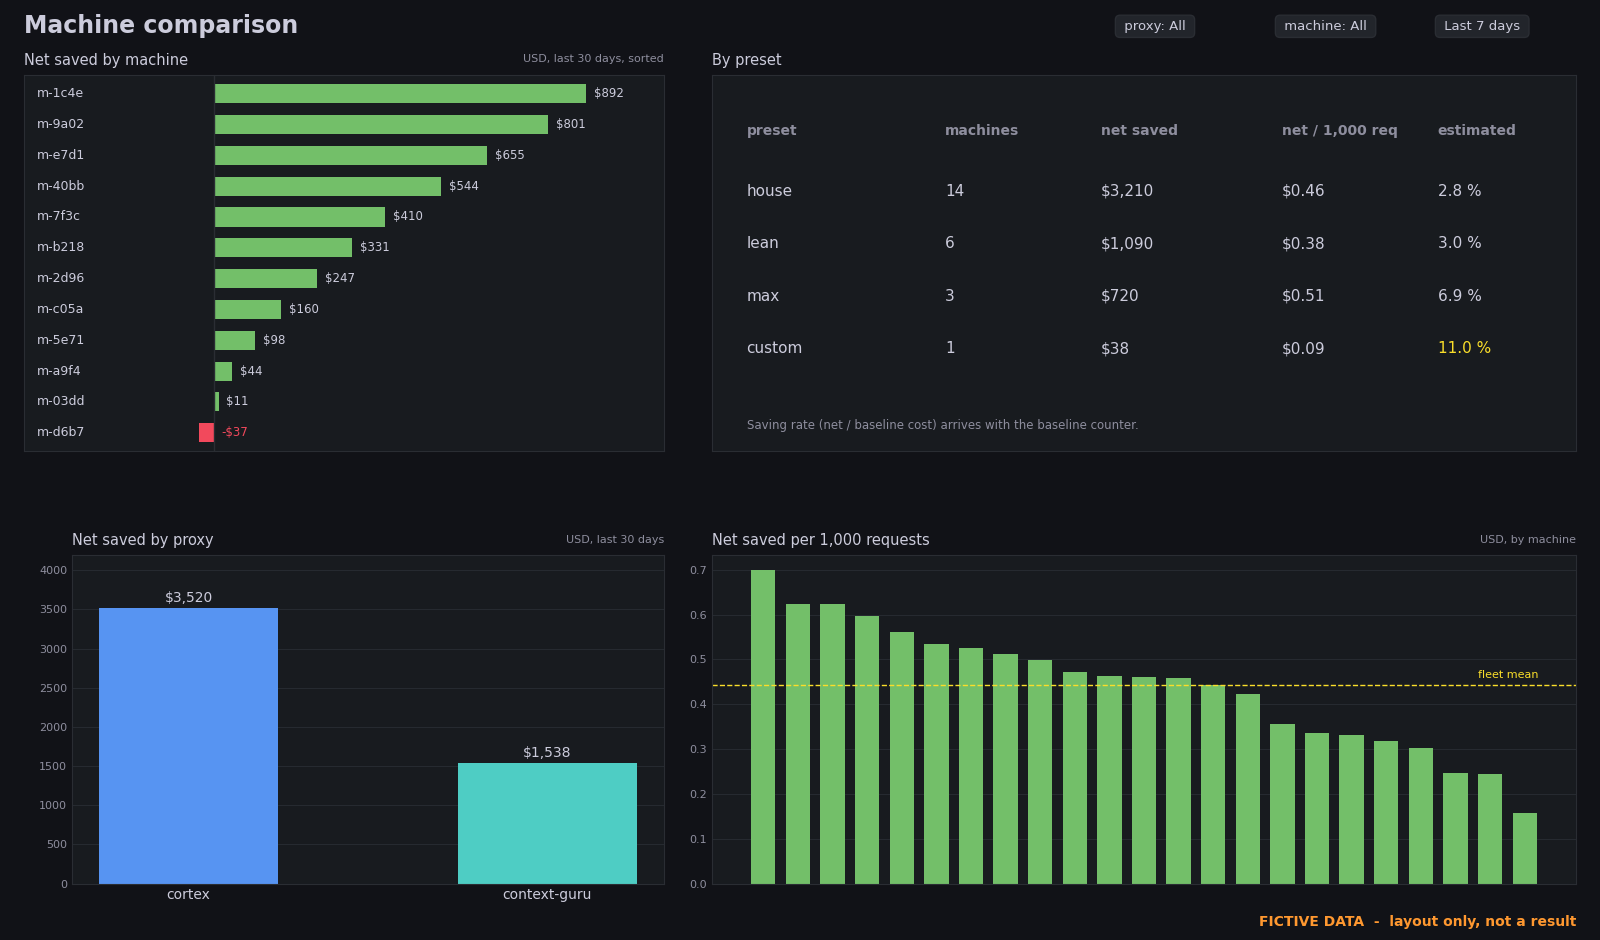
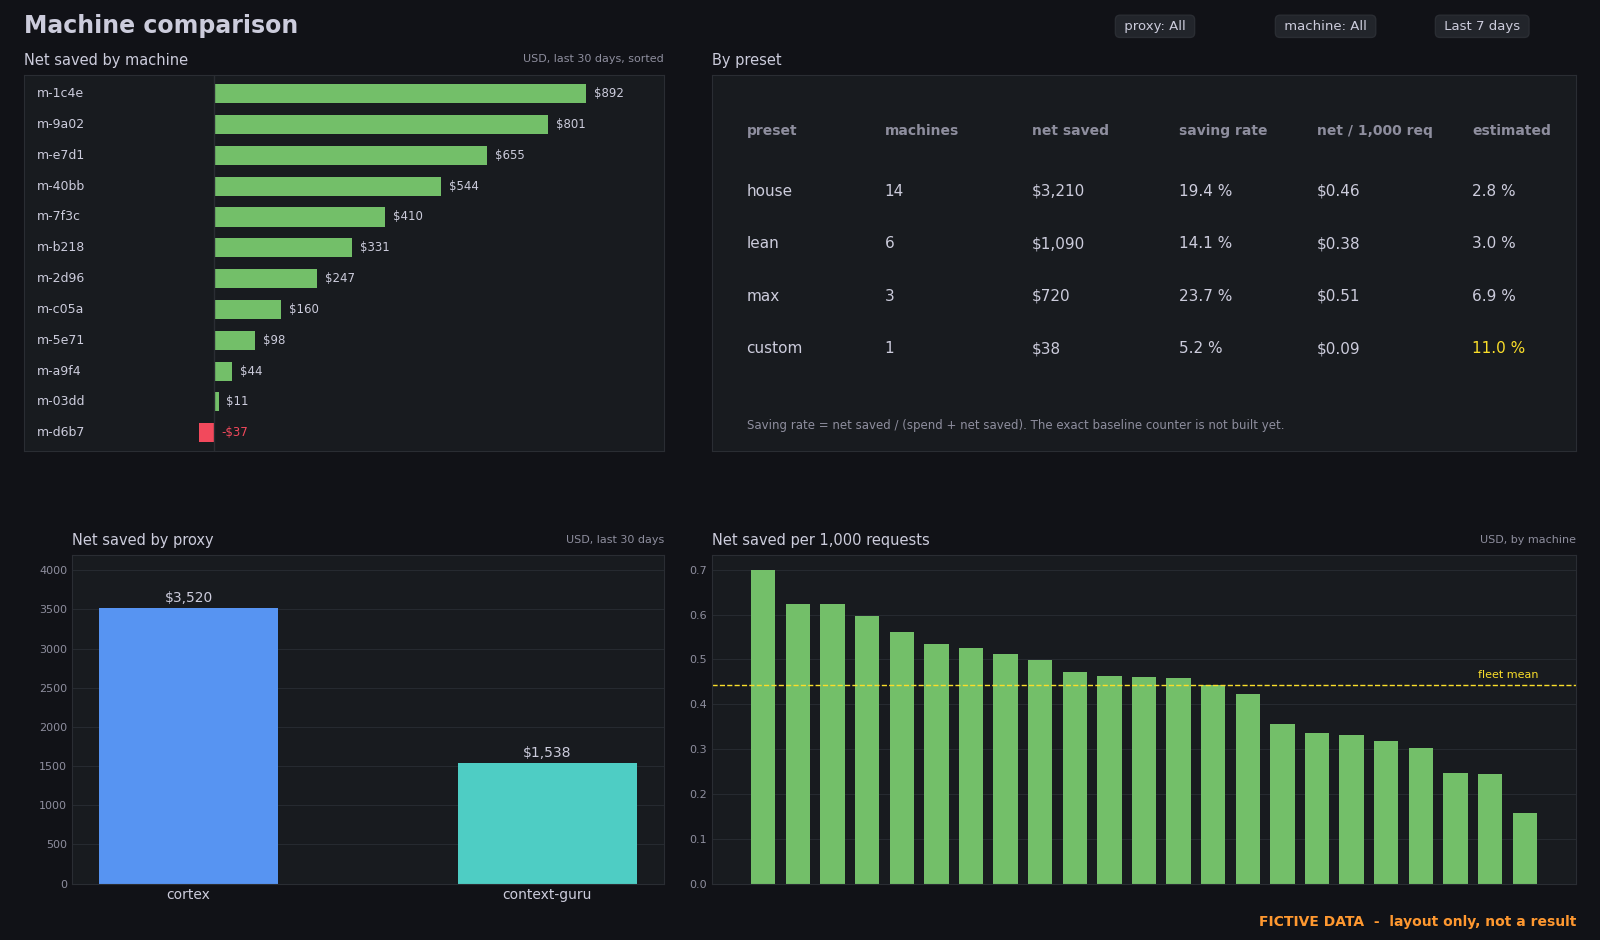
docs(prometheus): Add the saving rate column to the preset table
Assisted-By: Claude (Anthropic AI) <noreply@anthropic.com>

diff --git a/docs/prometheus/mockups/gen_mockups.py b/docs/prometheus/mockups/gen_mockups.py
@@ -242,17 +242,17 @@ def machines():
     for s in ax.spines.values():
         s.set_color(EDGE)
     ax.set_title("By preset", color=TXT, fontsize=10.5, loc="left", pad=7)
-    head = ("preset", "machines", "net saved", "net / 1,000 req", "estimated")
-    data = [("house", "14", "$3,210", "$0.46", "2.8 %"), ("lean", "6", "$1,090", "$0.38", "3.0 %"),
-            ("max", "3", "$720", "$0.51", "6.9 %"), ("custom", "1", "$38", "$0.09", "11.0 %")]
-    xs = [0.04, 0.27, 0.45, 0.66, 0.84]
+    head = ("preset", "machines", "net saved", "saving rate", "net / 1,000 req", "estimated")
+    data = [("house", "14", "$3,210", "19.4 %", "$0.46", "2.8 %"), ("lean", "6", "$1,090", "14.1 %", "$0.38", "3.0 %"),
+            ("max", "3", "$720", "23.7 %", "$0.51", "6.9 %"), ("custom", "1", "$38", "5.2 %", "$0.09", "11.0 %")]
+    xs = [0.04, 0.20, 0.37, 0.54, 0.70, 0.88]
     for x, h in zip(xs, head):
         ax.text(x, 0.84, h, color=DIM, fontsize=10, weight="bold", transform=ax.transAxes)
     for i, row in enumerate(data):
         for x, cell in zip(xs, row):
-            ax.text(x, 0.68 - i * 0.14, cell, color=YEL if (x == 0.84 and float(cell.split()[0]) > 10) else TXT,
+            ax.text(x, 0.68 - i * 0.14, cell, color=YEL if (x == 0.88 and float(cell.split()[0]) > 10) else TXT,
                     fontsize=11, transform=ax.transAxes)
-    ax.text(0.04, 0.06, "Saving rate (net / baseline cost) arrives with the baseline counter.",
+    ax.text(0.04, 0.06, "Saving rate = net saved / (spend + net saved). The exact baseline counter is not built yet.",
             color=DIM, fontsize=8.5, transform=ax.transAxes)
     ax = panel(fig, [0.045, 0.06, 0.37, 0.35], "Net saved by proxy", "USD, last 30 days")
     ax.bar([0, 1], [3520, 1538], color=[BLUE, TEAL], width=0.5)

diff --git a/docs/prometheus/spec.md b/docs/prometheus/spec.md
@@ -504,7 +504,7 @@ Question: which machines or configs save the most?
 
 ![Machine comparison (fictive data)](img/dash-machines.png)
 
-The **saving rate** column needs the baseline counter (`llm_savings_baseline_usd_total`), which is not built yet. Until then, "Net saved per 1,000 requests" gives a fair comparison between a busy machine and a quiet one.
+The **saving rate** column is net saved / (spend + net saved). The exact baseline counter (`llm_savings_baseline_usd_total`) is not built, so spend plus net stands in for it. "Net saved per 1,000 requests" gives a fair comparison between a busy machine and a quiet one.
 
 | Panel | Type | Query idea |
 |---|---|---|
